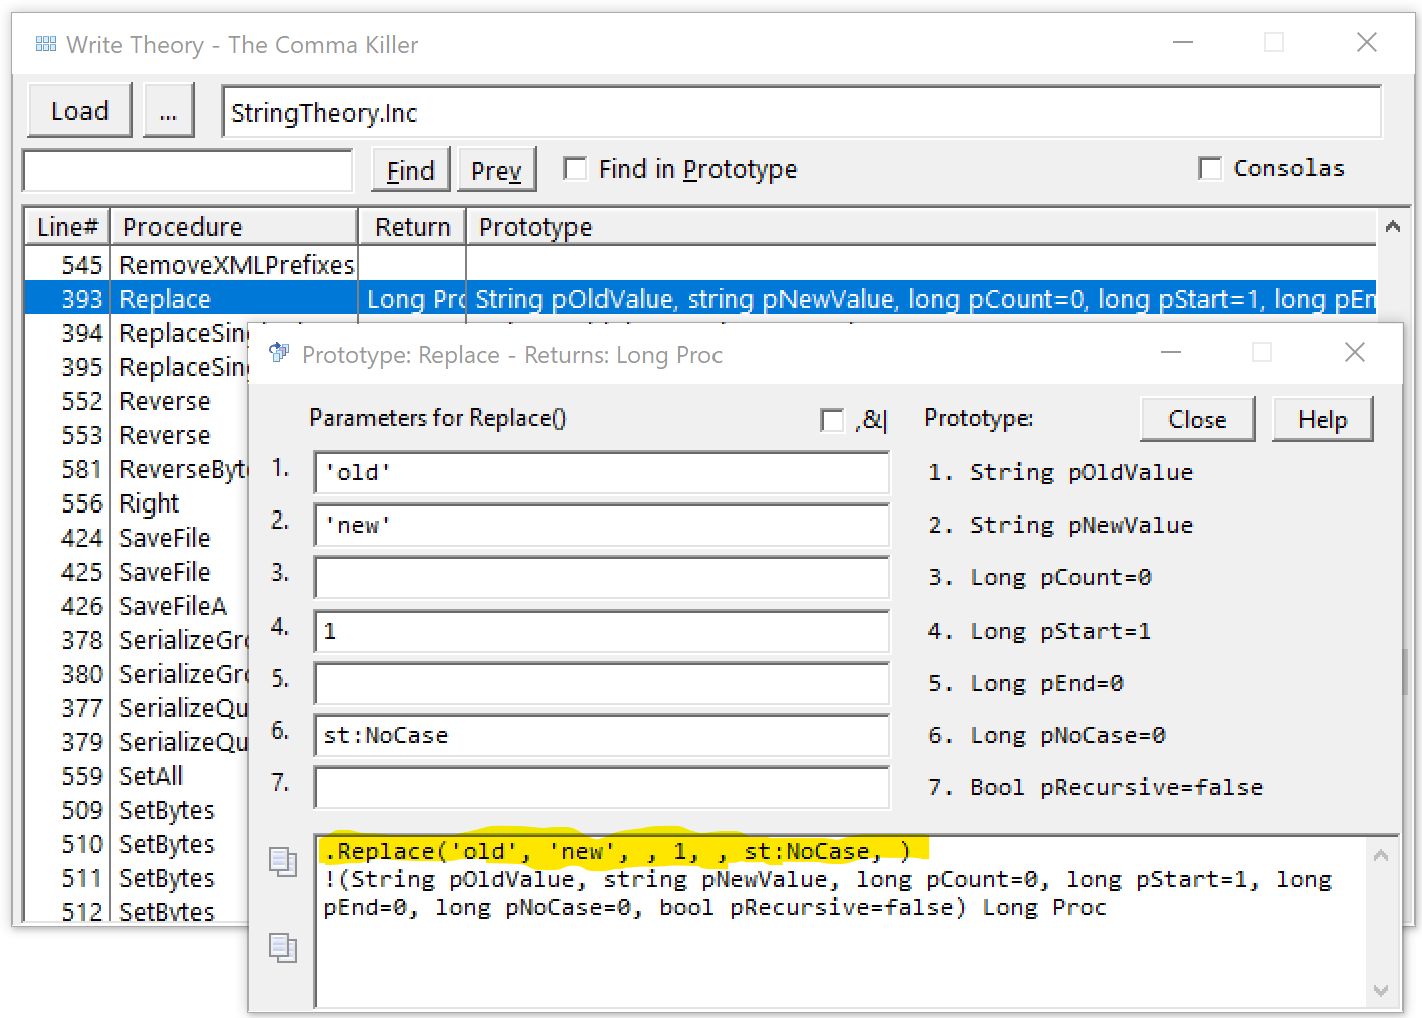
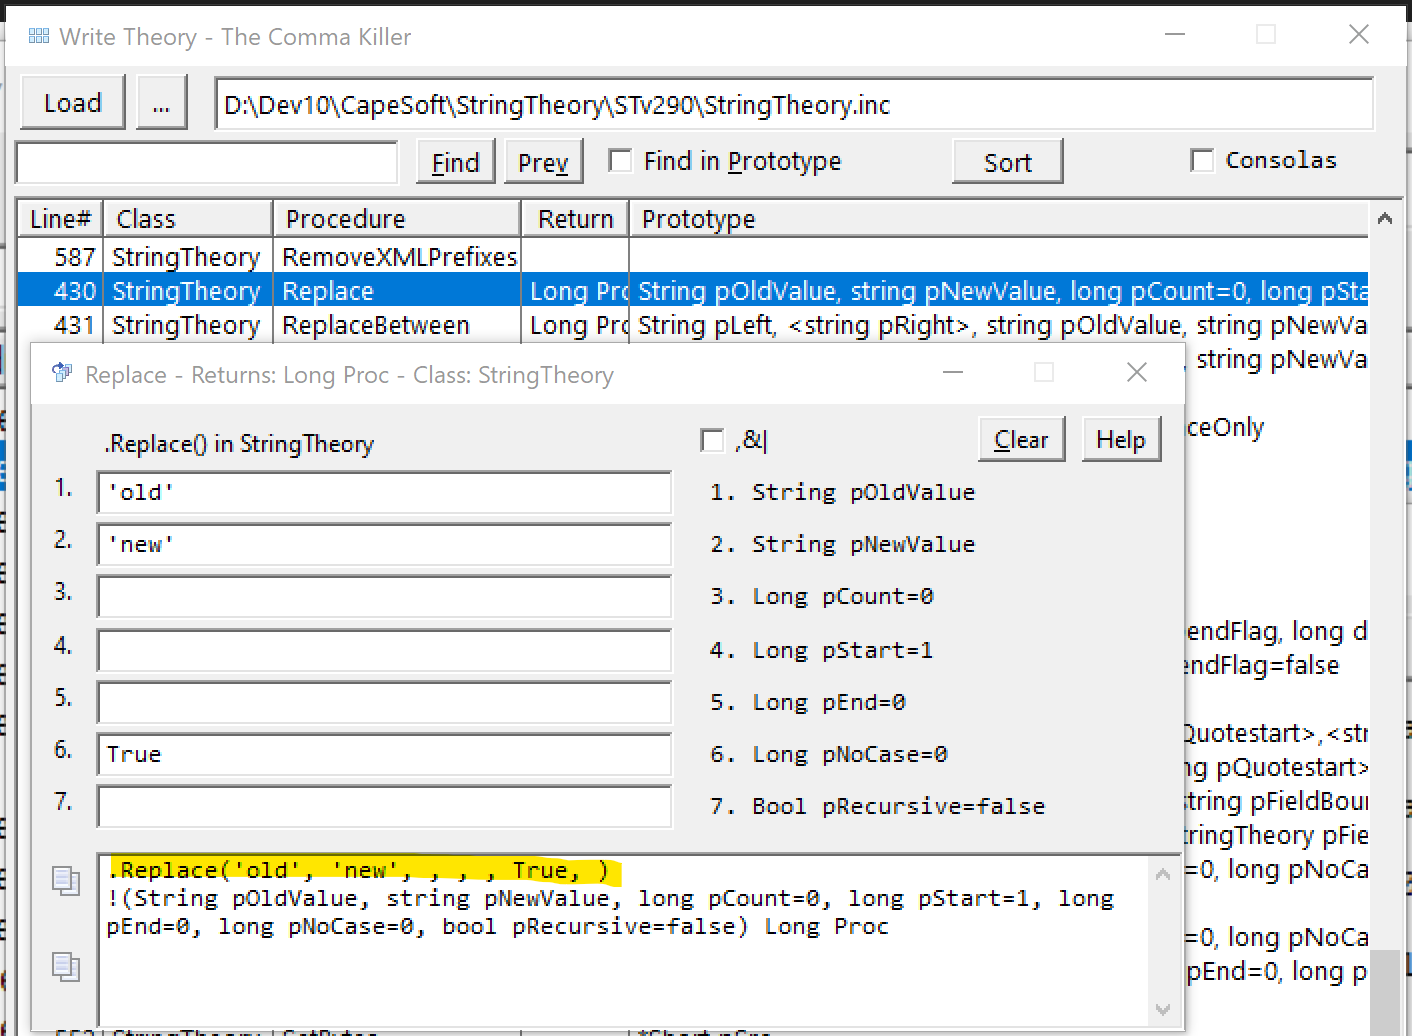
WriteTheory multi class and OddJob

Changed region(s): [[0.0, 0.0, 1.0, 1.0], [0.9972, 0.1218, 1.0, 0.1523]]

diff --git a/README.md b/README.md
@@ -163,3 +163,13 @@ Try out many StringTheory Split calls and view the results without writing code.
  View buttons use BigBangTheory to show the String Value, Lines split, or those lines split again into Columns.
 
 ![splitcap](images/split1.png)
+
+## Write Theory
+
+StringTheory can have up to 8 parameters (e.g. Split), and several with 6 to 7 (e.g. Replace), which can make it difficult to get the commas exactly right when you want to omit.
+ WriteTheory will read an INC file and help you write the call by opening a Form with each Parameter as an Entry. 
+ The Help button will open CapeSoft.com help for ST and OddJob. More can easily be added.
+
+![wt1](images/writetheory1.png)
+![wt2](images/writetheory2.png)
+![wtoj](images/writetheoryoj.png)
